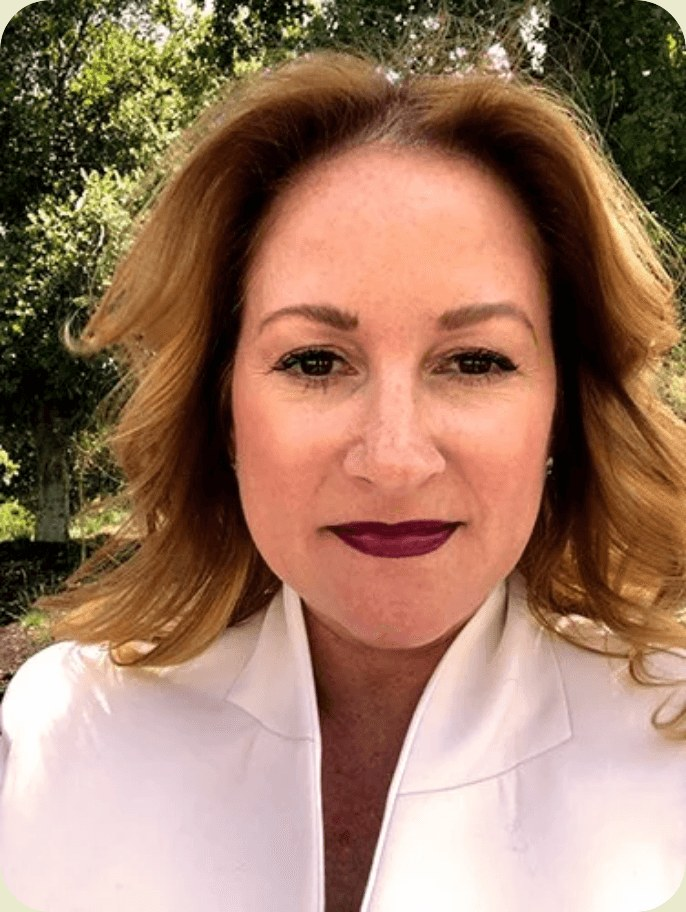
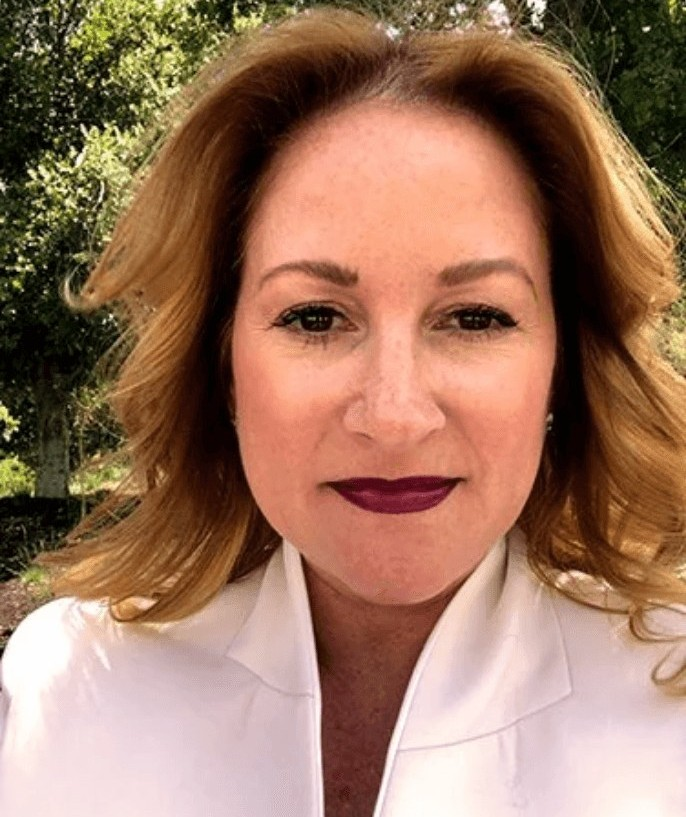
Drop rounded/pill UI for square editorial styling
- Square buttons in claret; header Contact becomes a text link.
- Hairline underline inputs and selects instead of pill fields.
- Remove company chips (duplicated the dropdown) and pill action
  buttons; selection actions are now small underlined text links.
- Square the portrait (crop out the baked-in rounded corners), dialog
  and highlights; drop the repeated "press contact" label.

Claude-Session: https://claude.ai/code/session_01Ct1bL45qGC6SzhWNGwLdfv

diff --git a/public/press/press.css b/public/press/press.css
@@ -12,19 +12,11 @@
 .toolbar { display: grid; grid-template-columns: 1fr auto auto auto; gap: 10px; }
 .toolbar input, .toolbar select {
   font: inherit; color: var(--claret);
-  background: #f4f4e2; border: 1px solid var(--claret); border-radius: 999px;
-  padding: 12px 18px; min-width: 0;
+  background: transparent; border: 0; border-bottom: 1px solid var(--claret); border-radius: 0;
+  padding: 10px 2px; min-width: 0;
 }
-.toolbar input:focus, .toolbar select:focus { outline: 2px solid var(--pink); outline-offset: 2px; }
-
-.chips { display: flex; flex-wrap: wrap; gap: 8px; margin: 16px 0 8px; }
-.chip {
-  font: inherit; font-size: .85rem; cursor: pointer;
-  border: 1px solid var(--claret); background: transparent; color: var(--claret);
-  border-radius: 999px; padding: 6px 14px;
-}
-.chip[aria-pressed="true"] { background: var(--claret); color: var(--cream); }
-.chip .n { opacity: .7; margin-left: 4px; }
+.toolbar input:focus, .toolbar select:focus { outline: none; border-bottom-color: var(--pink-dark); box-shadow: 0 1px 0 var(--pink-dark); }
+.toolbar { gap: 28px; margin-bottom: 20px; }
 
 .selection-bar {
   position: sticky; top: 0; z-index: 2;
@@ -33,11 +25,16 @@
   padding: 12px 0; margin-top: 8px;
 }
 .selection-bar .check { display: flex; align-items: center; gap: 10px; font-size: .95rem; }
-.selection-bar input[type="checkbox"], .result input[type="checkbox"] { width: 20px; height: 20px; accent-color: var(--claret); flex: none; }
+.selection-bar input[type="checkbox"], .result input[type="checkbox"] { width: 16px; height: 16px; accent-color: var(--claret); flex: none; }
 .sel-actions { display: flex; align-items: center; flex-wrap: wrap; gap: 8px; font-size: .9rem; }
-.btn-tiny { font-size: .66rem; padding: 9px 16px; }
-.btn-tiny:disabled { opacity: .45; cursor: not-allowed; }
-.btn-tiny.outline { background: transparent; color: var(--claret); border: 1px solid var(--claret); }
+.sel-actions { gap: 22px; }
+.link-btn {
+  all: unset; cursor: pointer; font-size: .68rem; font-weight: 500; letter-spacing: .16em; text-transform: uppercase;
+  text-decoration: underline; text-decoration-thickness: 1px; text-underline-offset: 5px;
+}
+.link-btn:hover { color: var(--pink-dark); }
+.link-btn:disabled { opacity: .3; cursor: default; text-decoration: none; }
+.link-btn:focus-visible { outline: 1px solid var(--claret); outline-offset: 4px; }
 
 .table-wrap { width: 100%; }
 .pr-table { width: 100%; border-collapse: collapse; font-size: .9rem; font-variant-numeric: tabular-nums lining-nums; }
@@ -50,8 +47,7 @@
 .pr-table th[aria-sort="ascending"] .sort::after { content: " ↑"; opacity: 1; }
 .pr-table th[aria-sort="descending"] .sort::after { content: " ↓"; opacity: 1; }
 .pr-table td { padding: 14px 10px; border-bottom: 1px solid rgba(92, 11, 65, .2); vertical-align: top; }
-.pr-table tr.selected td { background: rgba(215, 127, 169, .14); }
-.pr-table tbody tr:hover td { background: rgba(215, 127, 169, .08); }
+.pr-table tr.selected td { background: rgba(92, 11, 65, .06); }
 .c-sel { width: 36px; }
 .c-date { white-space: nowrap; width: 120px; font-size: .78rem; letter-spacing: .06em; text-transform: uppercase; padding-top: 19px !important; }
 .c-org, .c-name { width: 160px; }
@@ -64,15 +60,15 @@
 }
 .pr-table .open:hover, .pr-table .open:focus-visible { text-decoration-color: var(--pink); }
 .pr-table .summary { margin: 8px 0 0; font-size: .86rem; line-height: 1.55; opacity: .8; max-width: 62ch; }
-.result input[type="checkbox"] { width: 20px; height: 20px; accent-color: var(--claret); }
+.result input[type="checkbox"] { width: 16px; height: 16px; accent-color: var(--claret); }
 
-mark { background: rgba(215, 127, 169, .45); color: inherit; border-radius: 3px; }
+mark { background: rgba(215, 127, 169, .4); color: inherit; }
 
 .empty { font-size: 1.1rem; padding: 40px 0; }
 
 dialog#reader {
   width: min(860px, calc(100vw - 32px)); max-height: calc(100vh - 48px);
-  border: 0; border-radius: 24px; padding: 36px clamp(20px, 4vw, 48px);
+  border: 1px solid var(--claret); border-radius: 0; padding: 36px clamp(20px, 4vw, 48px);
   background: #f7f7e8; color: var(--claret);
 }
 dialog#reader::backdrop { background: rgba(40, 5, 28, .6); }

diff --git a/public/press/press.js b/public/press/press.js
@@ -1,7 +1,7 @@
 (() => {
   const $ = (id) => document.getElementById(id);
   const q = $('q'), fCompany = $('f-company'), fYear = $('f-year'), fSort = $('f-sort');
-  const results = $('results'), empty = $('empty'), chips = $('chips');
+  const results = $('results'), empty = $('empty');
   const selectAll = $('select-all'), countEl = $('count'), selCount = $('sel-count');
   const actionBtns = ['export-csv', 'export-json', 'copy-links', 'clear-sel'].map($);
 
@@ -70,7 +70,7 @@
           ${r.summary ? `<p class="summary">${highlight(r.summary, terms)}</p>` : ''}
         </td>
         <td class="c-org">${esc(r.client || r.company)}${r.client && r.client !== r.company ? `<span class="via">via ${esc(r.company)}</span>` : ''}</td>
-        <td class="c-name">${esc(r.name_as_listed)}<span class="via">${esc(r.role)}</span></td>
+        <td class="c-name">${esc(r.name_as_listed)}</td>
         <td class="c-links">
           ${r.url ? `<a href="${esc(r.url)}" target="_blank" rel="noopener">Original</a>` : ''}
           ${r.archive_url ? `<a href="${esc(r.archive_url)}" target="_blank" rel="noopener">Archive</a>` : ''}
@@ -82,19 +82,10 @@
     });
 
     empty.hidden = shown.length > 0 || all.length === 0;
-    countEl.textContent = `${shown.length} of ${all.length} release${all.length === 1 ? '' : 's'}`;
+    countEl.textContent = shown.length === all.length ? `${all.length} releases` : `${shown.length} of ${all.length} releases`;
     if (all.length === 0) countEl.textContent = 'The archive is being compiled. Check back soon.';
     updateSelection();
-    renderChips();
     writeState();
-  }
-
-  function renderChips() {
-    const counts = {};
-    for (const r of all) counts[r.company] = (counts[r.company] || 0) + 1;
-    chips.innerHTML = Object.keys(counts).sort().map((c) =>
-      `<button type="button" class="chip" data-company="${esc(c)}" aria-pressed="${fCompany.value === c}">${esc(c)}<span class="n">${counts[c]}</span></button>`
-    ).join('');
   }
 
   function updateSelection() {
@@ -107,7 +98,7 @@
   }
 
   function openReader(r) {
-    $('r-meta').textContent = `${fmtDate(r.date)} · ${org(r)}`;
+    $('r-meta').textContent = `${fmtDate(r.date)}, ${org(r)}`;
     $('r-title').textContent = r.title;
     $('r-links').innerHTML = [
       r.url && `<a href="${esc(r.url)}" target="_blank" rel="noopener">View original</a>`,
@@ -166,13 +157,6 @@
     if (!b) return;
     const k = b.dataset.sort;
     fSort.value = k === 'date' ? (fSort.value === 'date-desc' ? 'date-asc' : 'date-desc') : k;
-    render();
-  });
-
-  chips.addEventListener('click', (e) => {
-    const c = e.target.closest('.chip');
-    if (!c) return;
-    fCompany.value = fCompany.value === c.dataset.company ? '' : c.dataset.company;
     render();
   });
 

diff --git a/public/press/index.html b/public/press/index.html
@@ -10,8 +10,8 @@
 <link rel="preconnect" href="https://fonts.googleapis.com">
 <link rel="preconnect" href="https://fonts.gstatic.com" crossorigin>
 <link href="https://fonts.googleapis.com/css2?family=Instrument+Sans:ital,wght@0,400..600;1,400..600&family=Instrument+Serif:ital@0;1&display=swap" rel="stylesheet">
-<link rel="stylesheet" href="/assets/site.css?v=3">
-<link rel="stylesheet" href="/press/press.css?v=3">
+<link rel="stylesheet" href="/assets/site.css?v=4">
+<link rel="stylesheet" href="/press/press.css?v=4">
 <meta property="og:site_name" content="Fireworks PR San Francisco">
 <meta property="og:title" content="Press Release Archive — Fireworks PR">
 <meta property="og:type" content="website">
@@ -24,13 +24,13 @@
   <a class="logo" href="/"><img src="/assets/logo.png" alt="Fireworks Communications" width="359" height="80"></a>
   <nav aria-label="Main">
     <a class="nav-link" href="/press/" aria-current="page">Press</a>
-    <a class="btn btn-header" href="/contact/">Contact</a>
+    <a class="nav-link" href="/contact/">Contact</a>
   </nav>
 </header>
 
 <main class="press">
   <div class="press-intro">
-    <p class="eyebrow">Amy Burke Bessette · 1999 — 2020</p>
+    <p class="eyebrow">Amy Burke Bessette, 1999–2020</p>
     <h1>The Press <em>Archive</em></h1>
     <p>Twenty-five years of launches, announcements and news written or handled by Amy Burke Bessette at Williams-Sonoma, RedEnvelope, Spark PR, Apple and Fireworks PR.</p>
   </div>
@@ -51,16 +51,15 @@
     </select>
   </div>
 
-  <div class="chips" id="chips" aria-label="Filter by company"></div>
 
   <div class="selection-bar">
     <label class="check"><input type="checkbox" id="select-all"> <span id="count">Loading…</span></label>
     <div class="sel-actions">
       <span id="sel-count">0 selected</span>
-      <button class="btn btn-tiny" id="export-csv" disabled>Export CSV</button>
-      <button class="btn btn-tiny" id="export-json" disabled>Export JSON</button>
-      <button class="btn btn-tiny" id="copy-links" disabled>Copy links</button>
-      <button class="btn btn-tiny outline" id="clear-sel" disabled>Clear</button>
+      <button class="link-btn" id="export-csv" disabled>Export CSV</button>
+      <button class="link-btn" id="export-json" disabled>Export JSON</button>
+      <button class="link-btn" id="copy-links" disabled>Copy links</button>
+      <button class="link-btn" id="clear-sel" disabled>Clear</button>
     </div>
   </div>
 
@@ -95,6 +94,6 @@
   <a href="mailto:info@fireworkspr.net">info@fireworkspr.net</a>
 </footer>
 
-<script src="/press/press.js?v=3" defer></script>
+<script src="/press/press.js?v=4" defer></script>
 </body>
 </html>

diff --git a/public/assets/site.css b/public/assets/site.css
@@ -5,7 +5,7 @@
   --pink-dark: #c86a97;
   --white: #ffffff;
   --gutter: clamp(16px, 2vw, 30px);
-  --radius: 40px;
+  --radius: 0;
   --serif: "Instrument Serif", "Iowan Old Style", Georgia, serif;
   --sans: "Instrument Sans", "Helvetica Neue", Arial, sans-serif;
 }
@@ -76,22 +76,22 @@ p { text-wrap: pretty; }
 
 .btn {
   display: inline-block;
-  background: var(--pink);
-  color: var(--white);
+  background: var(--claret);
+  color: var(--cream);
   border: 0;
-  border-radius: 300px;
+  border-radius: 0;
   font: inherit;
   cursor: pointer;
   text-decoration: none;
   transition: background .15s ease;
 }
-.btn:hover { background: var(--pink-dark); }
+.btn:hover { background: #3f0729; }
 
 .btn-header { font-size: .8rem; padding: 18px 34px; }
 
 .btn-small {
-  font-size: .78rem;
-  padding: 20px 40px;
+  font-size: .74rem;
+  padding: 18px 34px;
 }
 
 /* ---------- Main layouts ---------- */
@@ -125,7 +125,7 @@ main { flex: 1; }
   width: 100%;
   border-radius: var(--radius);
   object-fit: cover;
-  aspect-ratio: 686 / 912;
+  aspect-ratio: 686 / 817;
 }
 
 /* ---------- Form ---------- */
@@ -139,13 +139,15 @@ main { flex: 1; }
   font: inherit;
   color: var(--claret);
   background: transparent;
-  border: 1px solid var(--claret);
-  border-radius: 8px;
-  padding: 8px 10px;
+  border: 0;
+  border-bottom: 1px solid var(--claret);
+  border-radius: 0;
+  padding: 8px 0;
 }
-.form textarea { min-height: 100px; resize: vertical; }
+.form textarea { min-height: 110px; resize: vertical; border: 1px solid var(--claret); padding: 10px 12px; }
+.form input:focus, .form textarea:focus { outline: none; border-color: var(--pink-dark); box-shadow: 0 1px 0 var(--pink-dark); }
 .form .check { display: flex; align-items: center; gap: 10px; font-size: .85rem; margin-top: 8px; }
-.form .check input { width: 20px; height: 20px; accent-color: var(--claret); }
+.form .check input { width: 16px; height: 16px; accent-color: var(--claret); }
 .form .hp { position: absolute; left: -9999px; }
 .form-status { margin-top: 16px; font-size: 1rem; }
 .form-status.error { color: #a0122c; }
@@ -174,7 +176,7 @@ main { flex: 1; }
   .site-header .logo img { width: 100%; max-width: 220px; }
   .site-header nav { gap: 12px; flex: none; }
   .nav-link { font-size: .72rem; }
-  .btn-header { font-size: .72rem; padding: 13px 20px; }
+  .site-header nav { gap: 18px; }
   .form .row { grid-template-columns: 1fr; }
   .site-footer { flex-direction: column; }
 }

diff --git a/public/index.html b/public/index.html
@@ -10,7 +10,7 @@
 <link rel="preconnect" href="https://fonts.googleapis.com">
 <link rel="preconnect" href="https://fonts.gstatic.com" crossorigin>
 <link href="https://fonts.googleapis.com/css2?family=Instrument+Sans:ital,wght@0,400..600;1,400..600&family=Instrument+Serif:ital@0;1&display=swap" rel="stylesheet">
-<link rel="stylesheet" href="/assets/site.css?v=3">
+<link rel="stylesheet" href="/assets/site.css?v=4">
 <meta property="og:site_name" content="Fireworks PR San Francisco">
 <meta property="og:title" content="Fireworks PR San Francisco">
 <meta property="og:type" content="website">
@@ -23,7 +23,7 @@
   <a class="logo" href="/"><img src="/assets/logo.png" alt="Fireworks Communications" width="359" height="80"></a>
   <nav aria-label="Main">
     <a class="nav-link" href="/press/">Press</a>
-    <a class="btn btn-header" href="/contact/">Contact</a>
+    <a class="nav-link" href="/contact/">Contact</a>
   </nav>
 </header>
 
@@ -35,7 +35,7 @@
       <a class="btn btn-small" href="/contact/">Get Lit</a>
     </div>
     <div class="portrait">
-      <img src="/assets/amy-burke-bessette.jpg" alt="Amy Burke Bessette, founder of Fireworks PR" width="686" height="912">
+      <img src="/assets/amy-burke-bessette.jpg?v=2" alt="Amy Burke Bessette, founder of Fireworks PR" width="686" height="817">
     </div>
   </section>
 </main>

diff --git a/public/contact/index.html b/public/contact/index.html
@@ -10,7 +10,7 @@
 <link rel="preconnect" href="https://fonts.googleapis.com">
 <link rel="preconnect" href="https://fonts.gstatic.com" crossorigin>
 <link href="https://fonts.googleapis.com/css2?family=Instrument+Sans:ital,wght@0,400..600;1,400..600&family=Instrument+Serif:ital@0;1&display=swap" rel="stylesheet">
-<link rel="stylesheet" href="/assets/site.css?v=3">
+<link rel="stylesheet" href="/assets/site.css?v=4">
 <meta property="og:site_name" content="Fireworks PR San Francisco">
 <meta property="og:title" content="Contact — Fireworks PR San Francisco">
 <meta property="og:type" content="website">
@@ -23,7 +23,7 @@
   <a class="logo" href="/"><img src="/assets/logo.png" alt="Fireworks Communications" width="359" height="80"></a>
   <nav aria-label="Main">
     <a class="nav-link" href="/press/">Press</a>
-    <a class="btn btn-header" href="/contact/" aria-current="page">Contact</a>
+    <a class="nav-link" href="/contact/" aria-current="page">Contact</a>
   </nav>
 </header>
 

diff --git a/public/404.html b/public/404.html
@@ -9,14 +9,14 @@
 <link rel="preconnect" href="https://fonts.googleapis.com">
 <link rel="preconnect" href="https://fonts.gstatic.com" crossorigin>
 <link href="https://fonts.googleapis.com/css2?family=Instrument+Sans:ital,wght@0,400..600;1,400..600&family=Instrument+Serif:ital@0;1&display=swap" rel="stylesheet">
-<link rel="stylesheet" href="/assets/site.css?v=3">
+<link rel="stylesheet" href="/assets/site.css?v=4">
 </head>
 <body>
 <header class="site-header">
   <a class="logo" href="/"><img src="/assets/logo.png" alt="Fireworks Communications" width="359" height="80"></a>
   <nav aria-label="Main">
     <a class="nav-link" href="/press/">Press</a>
-    <a class="btn btn-header" href="/contact/">Contact</a>
+    <a class="nav-link" href="/contact/">Contact</a>
   </nav>
 </header>
 <main>
